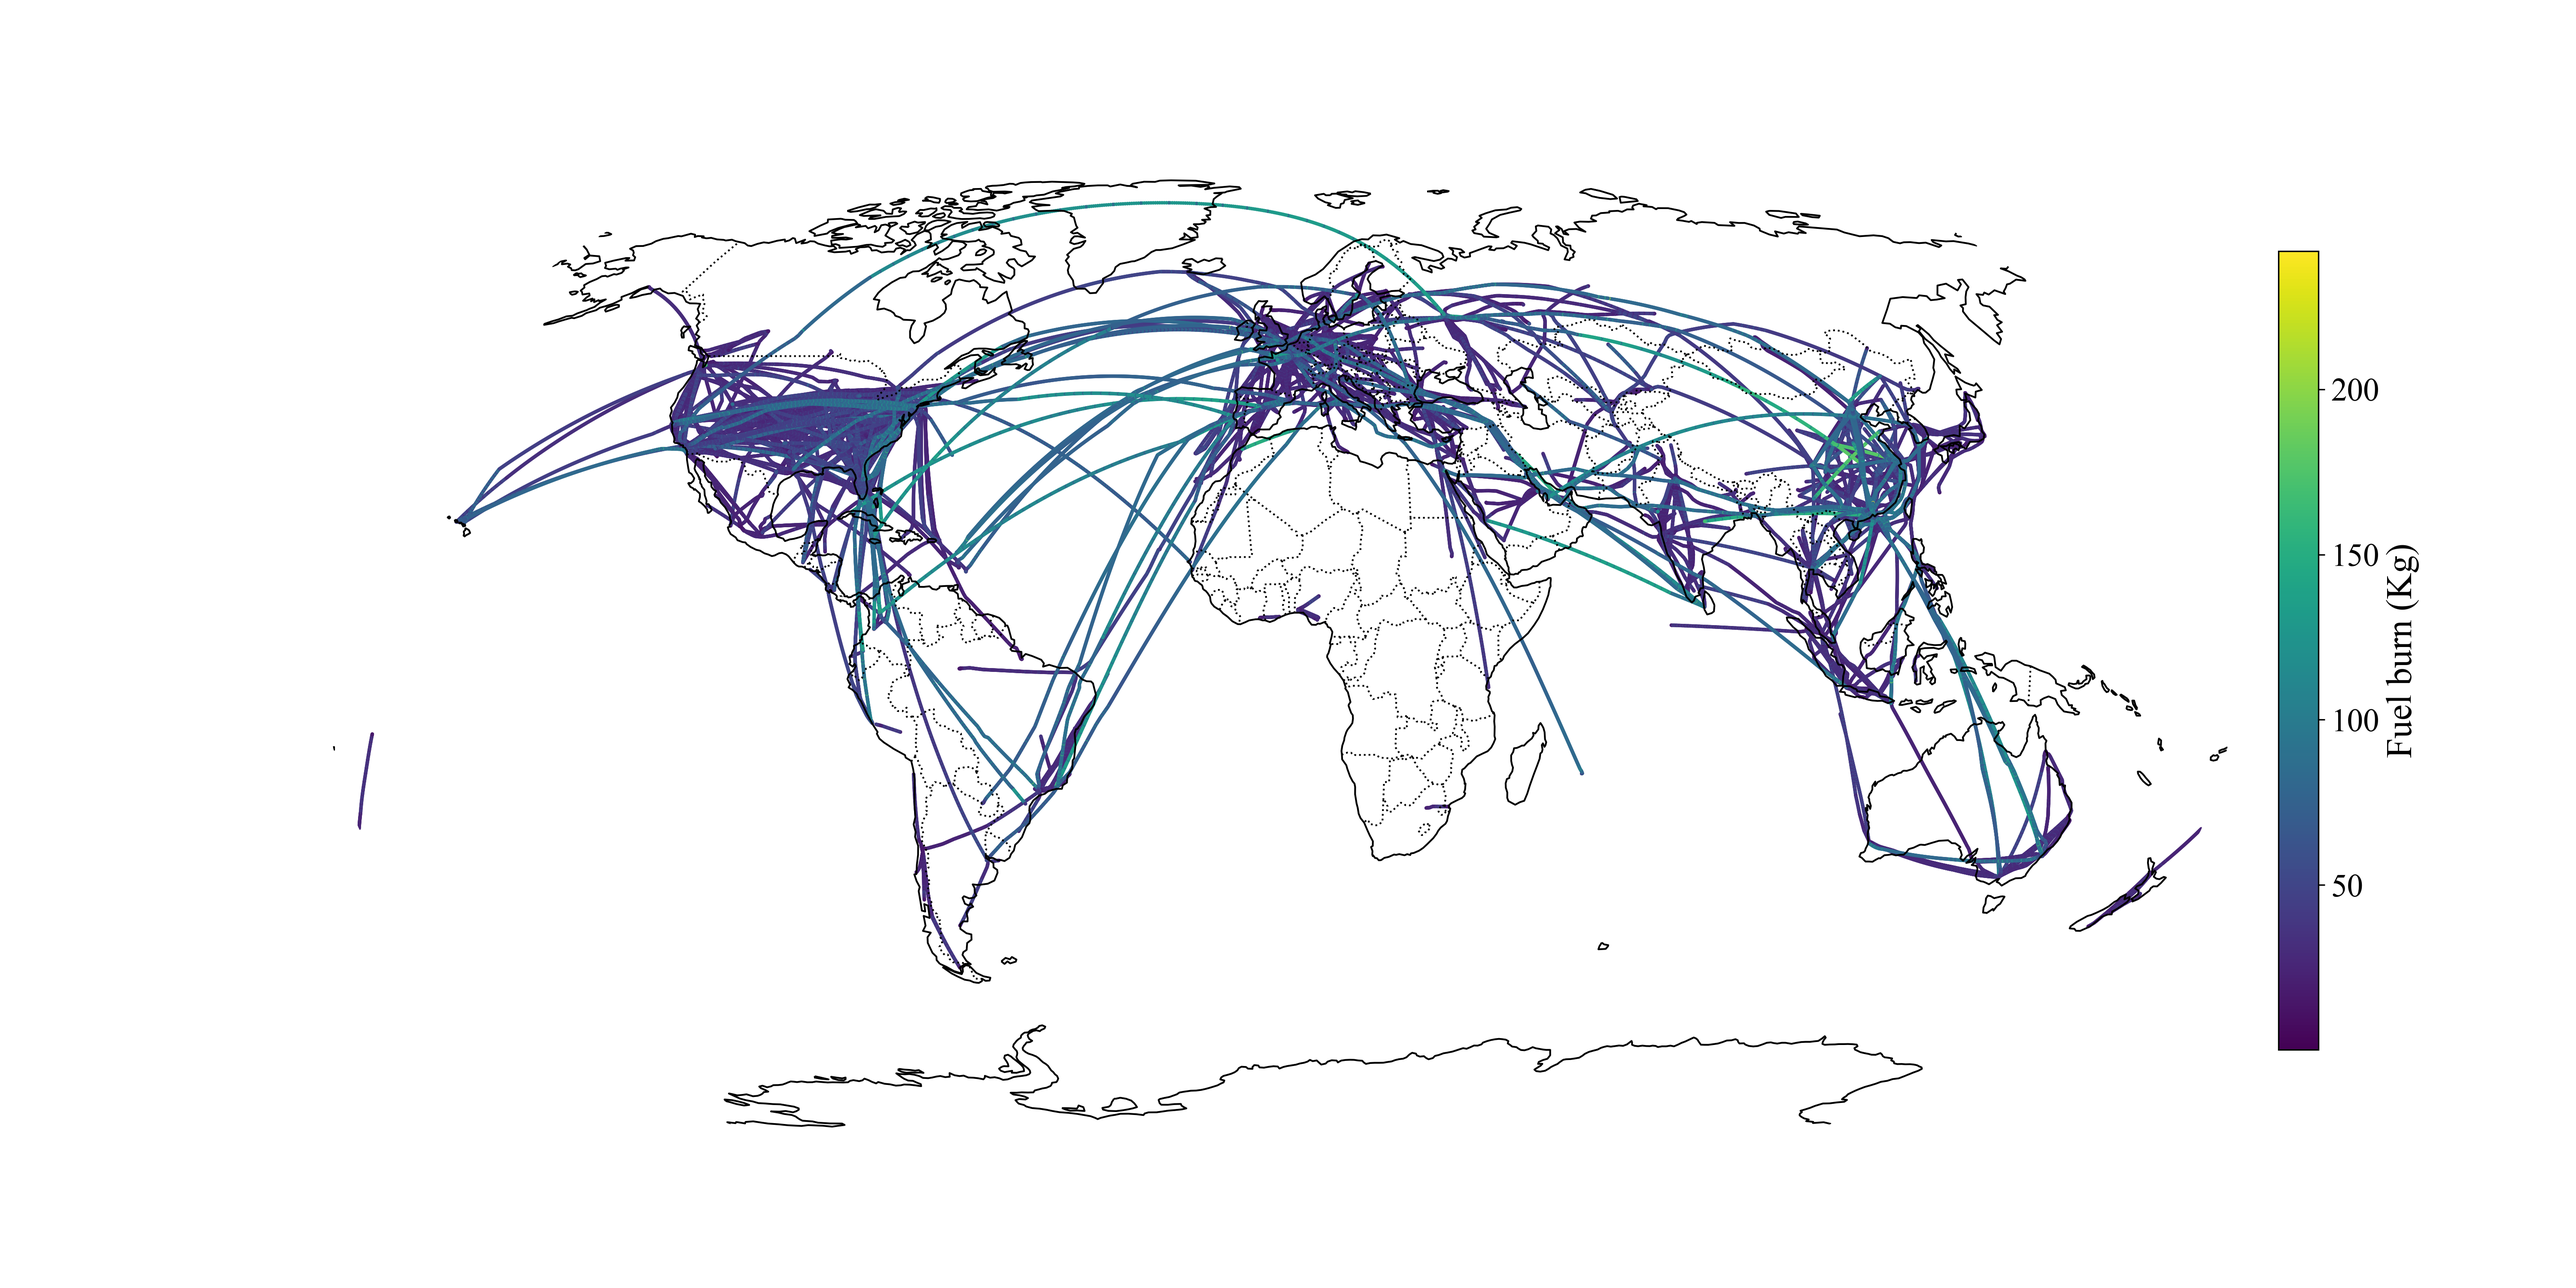
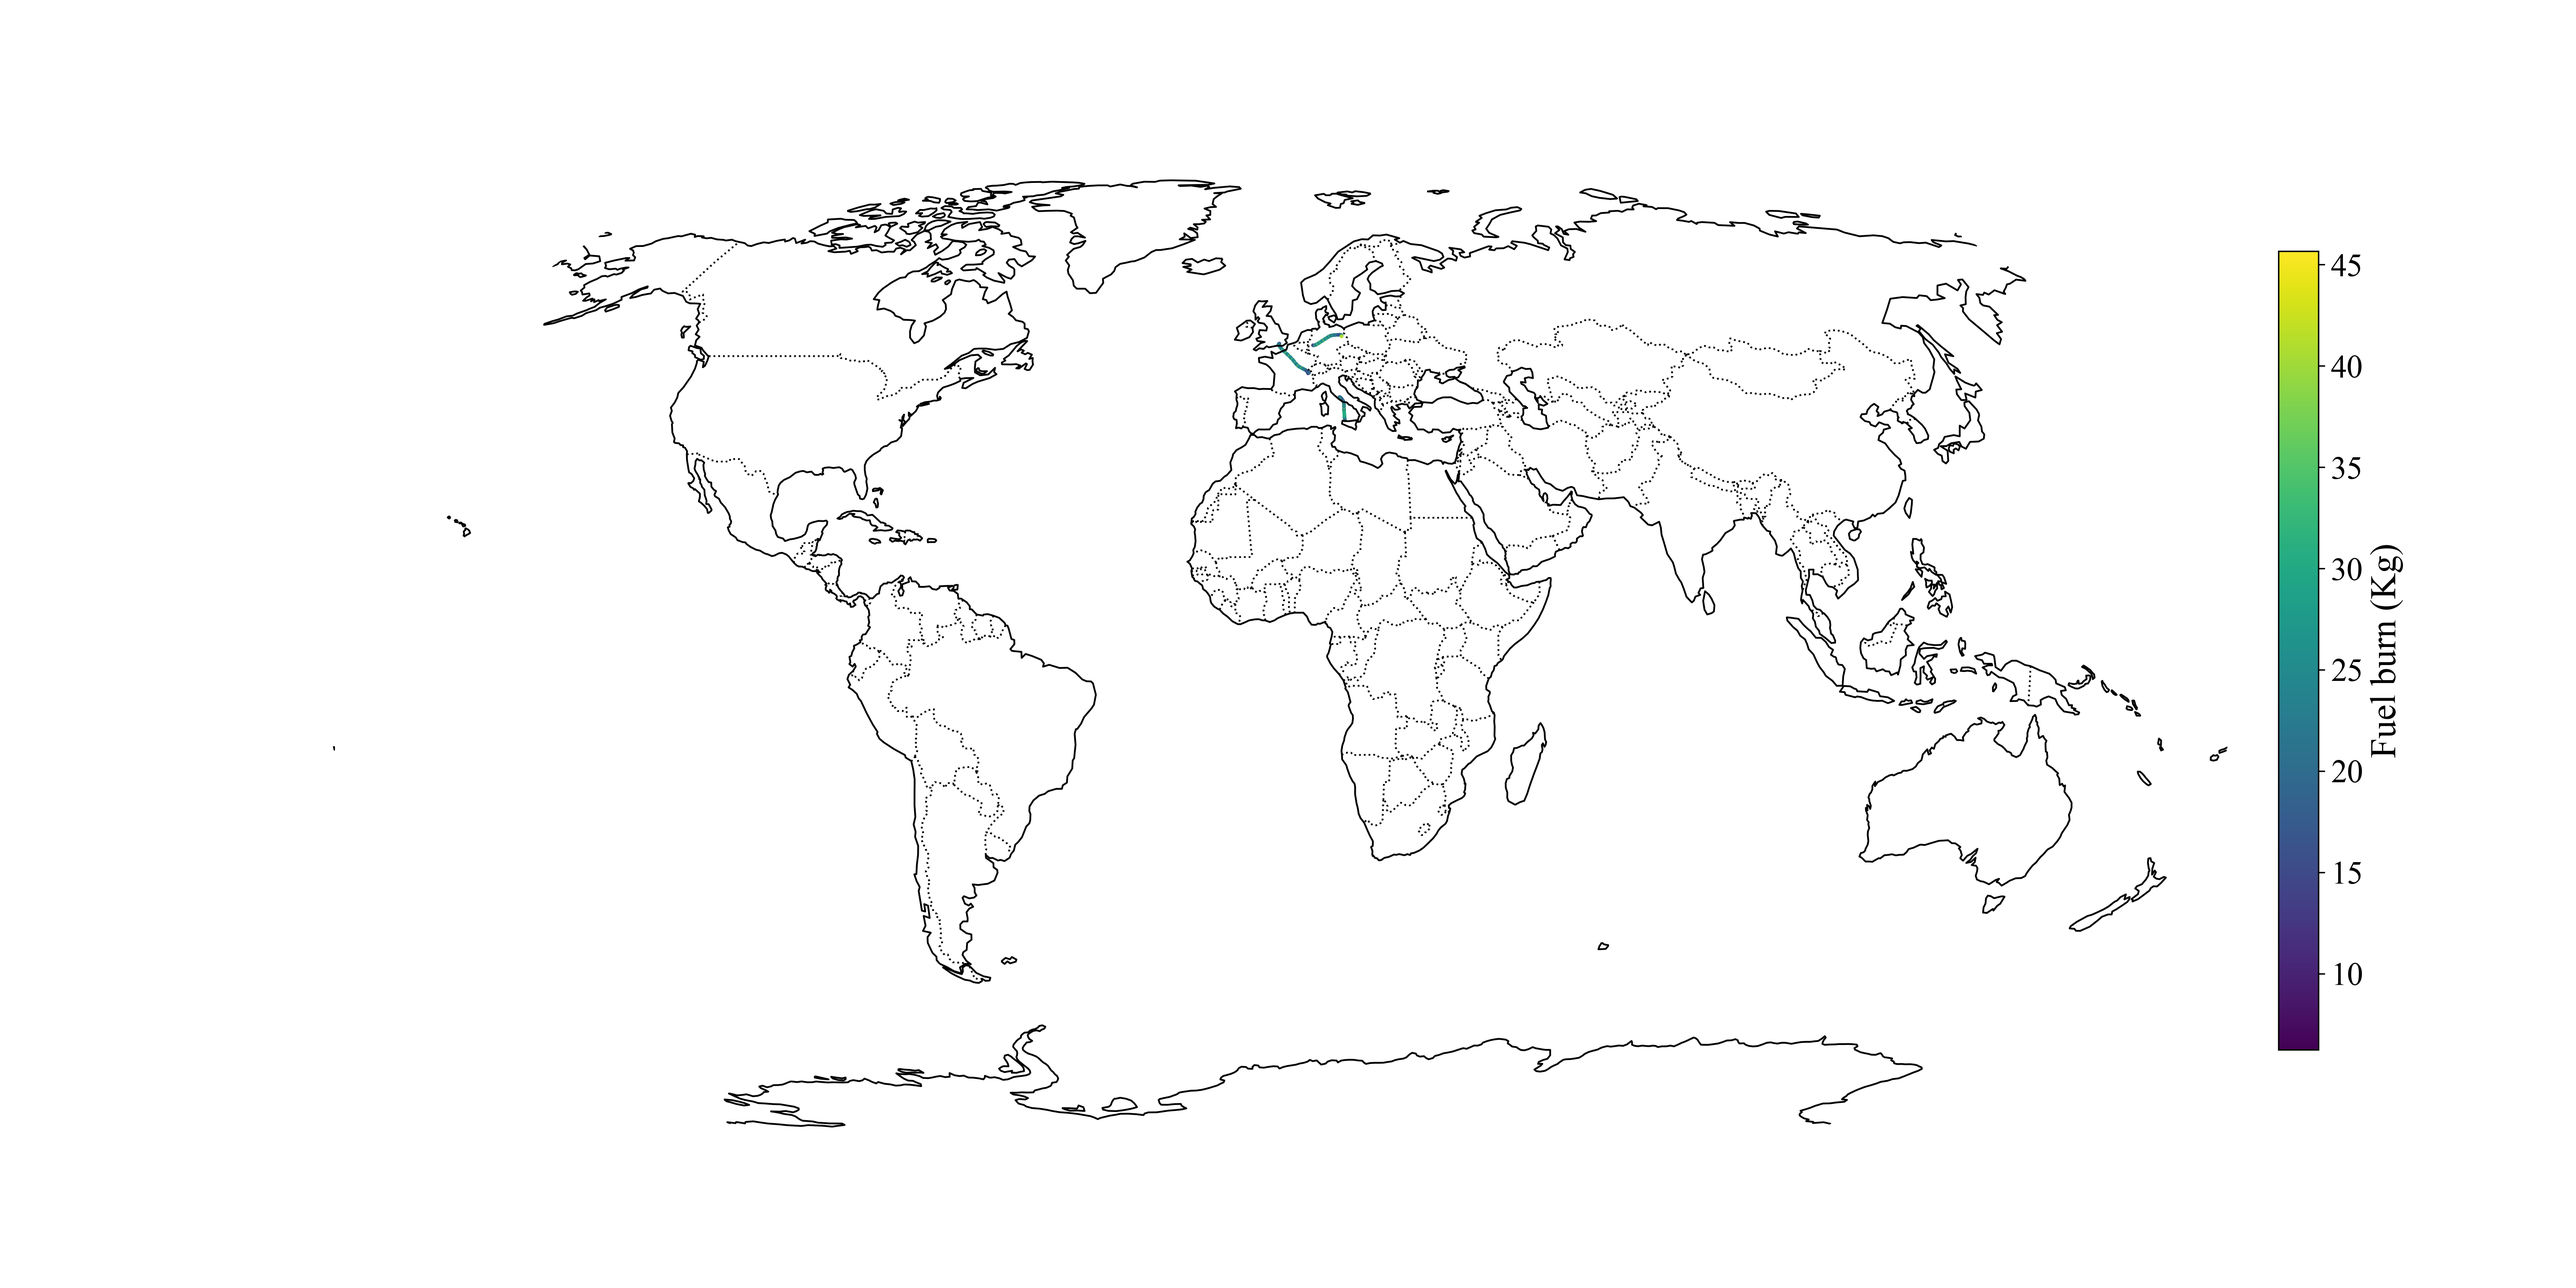
payload and fuel def

diff --git a/workbench/Google_TIM/Evaluation/Imperial/utils.py b/workbench/Google_TIM/Evaluation/Imperial/utils.py
@@ -4,33 +4,67 @@ import numpy as np
 import sys
 from datetime import datetime
 
-def compute_emissions(trajectory, actype, massfrac, debug):
+def computute_mission_weight(actype, payload_factor, fuel_factor, diagnostics):
 
-    # Define fuel flow object with default engine (TODO add specifici with Cirium)
-    ff = FuelFlow(actype)
-
+    # Get aircraft type
     ac1 = prop.aircraft(actype)
 
+    # Get the maximum fuel capacity (liters)
+    MFC = ac1['limits']['MFC']
+
+    # Compute the fuel weight (Max. Fuel Mass)
+    MFW = MFC * 0.80   # Jet A density 0.8 kg/liter
+    
     # Get mass design limits
     MTOW = ac1['limits']['MTOW']  # Kg
 
-    # Get the MLW for this airframe
-    MLW = ac1['limits']['MLW']  # Kg
-
-    # Get the OEW for this airframe
+    # Get OEW
     OEW = ac1['limits']['OEW']  # Kgs
 
-    # Get the MFC for this airframe
-    MFC = ac1['limits']['MFC']  # Kgs
+    # Get mass design limits
+    MLW = ac1['limits']['MLW']  # Kg
+
+    # Max Payload Weight = Max. take off weight - Max fuel weight - empty weight
+    MPW = MTOW - MFW - OEW
+
+    # Eval mission weight = operating empty weight + payload weight*factor + fuel weight*factor
+    MW = OEW + (MPW * payload_factor) + (MFW * fuel_factor)
+
+    if diagnostics:
+        print("OEW:", OEW)
+        print("MPW:", MPW)
+        print("MFW:", MFW)
+
+    return MW, MTOW, MLW, OEW, MFW * fuel_factor, MPW * payload_factor
+
+
+
+def compute_emissions(trajectory, actype, payload_factor, fuel_factor, debug):
+
+    # Define fuel flow object with default engine (TODO add specifici with Cirium)
+    ff = FuelFlow(actype)
+    
+    # Get the mission weight (Mass) (fuel + payload + OEW)
+    Mass_ini, MTOW, MLW, OEW, Fuel_weight, Payload_weight = computute_mission_weight(actype, payload_factor, fuel_factor, False)
 
     path_angles = trajectory.path_angle_radians
     
     # Time spent over each segment (in-between waypoints)
     time_deltas = trajectory.elapsed_time_seconds
 
-    # Set the initial mass to "some fraction" of MTOW
-    mass_init = massfrac * MTOW
-    mass = mass_init
+    # Mission mass cannot be less than operational empty weight - 
+    if Fuel_weight  == 0:
+        print("Fuel weight cannot be zero")
+        sys.exit()
+
+    mass = Mass_ini
+
+    if mass > MTOW:
+        print("Mission weight is greater than MTOW!")
+        print("Design MTOW: ", MTOW)
+        print("Mission weight: ", mass)
+        computute_mission_weight(actype, payload_factor, fuel_factor, True)
+        sys.exit()
 
     # Determine the number of segments
     n = len(time_deltas)
@@ -43,13 +77,20 @@ def compute_emissions(trajectory, actype, massfrac, debug):
             print(f"Skipping index {i} due to missing data.")
             continue
         fuelflow = ff.enroute(mass, tas, alt, pa)
-        # Here fuelflow is change in mass (fuel burn) over a segment
+        # Here fuelflow is change in mass (fuel burn) over a segment (Kg/s over segment)
         mass -= fuelflow * dt
 
+        if mass < (OEW + Payload_weight):
+            print("Current mission weight is less than  OEW + Payload")
+            print("Not enough fuel to complete mission")
+            print("Available mission fuel weight: ", Fuel_weight)
+            sys.exit()
+
+
         if debug:
+            # Exit if fuel burn invalid 
             if pd.isna(fuelflow * dt):
                 print("Fuel burn calculation resulted in NAN, stopping execution")
-
                 print("Aircraft: ", actype)
                 print("Current dt:", dt)
                 print("Current fuelflow:", fuelflow)
@@ -62,12 +103,18 @@ def compute_emissions(trajectory, actype, massfrac, debug):
         # Store the product of fuelflow and dt directly in the preallocated array
         fuel_consumption_array[i] = fuelflow * dt
 
+    fuelburn = Mass_ini - mass
     # Ensure that the final mass is less than or equal to design MLW
     if (mass > MLW):
-        print("ERROR: Current mass fraction and mission profile reuslts in exceeding MLW")
+        print("ERROR: Final mass exceeds maximum design landing weight")
+        print("Final mission mass: ", mass)
+        print("Max. landing weight: ", MLW)
+        print("Initial fuel weight:", )
+        print("Fuel burn: ", fuelburn)
+
         sys.exit()
 
-    fuelburn = mass_init - mass
+    
 
     print("Fuel burn: ", fuelburn)
 

diff --git a/workbench/Google_TIM/Evaluation/Imperial/main.py b/workbench/Google_TIM/Evaluation/Imperial/main.py
@@ -30,7 +30,13 @@ df_wyp = read_parquet_header(file_path_2)  # Dataframe with flight speed, waypoi
 Target_id = "190107-72701-IBE32HL"
 
 debug = False
-Limit = 3000
+Limit = 2
+
+# Fuel load factor
+fuel_factor = 0.001
+
+# Payload factor
+payload_factor = 0.90
 
 # List to hold data for all flights for plotting
 all_flights_data = []
@@ -65,11 +71,11 @@ for flight_id in df_sum['flight_id'].unique():
             if debug:
                 print(flight_data['flight_id'])
                 processed_df.to_csv("Failing.csv")
-                fuel_burn = utl.compute_emissions(processed_df, airFrame, 0.75, debug)
+                fuel_burn = utl.compute_emissions(processed_df, airFrame, payload_factor, fuel_factor, debug)
 
             else:
 
-                fuel_burn = utl.compute_emissions(processed_df, airFrame, 0.75, debug)       
+                fuel_burn = utl.compute_emissions(processed_df, airFrame, payload_factor, fuel_factor, debug)       
 
 
                 # Add the computed fuel burn to the DataFrame
